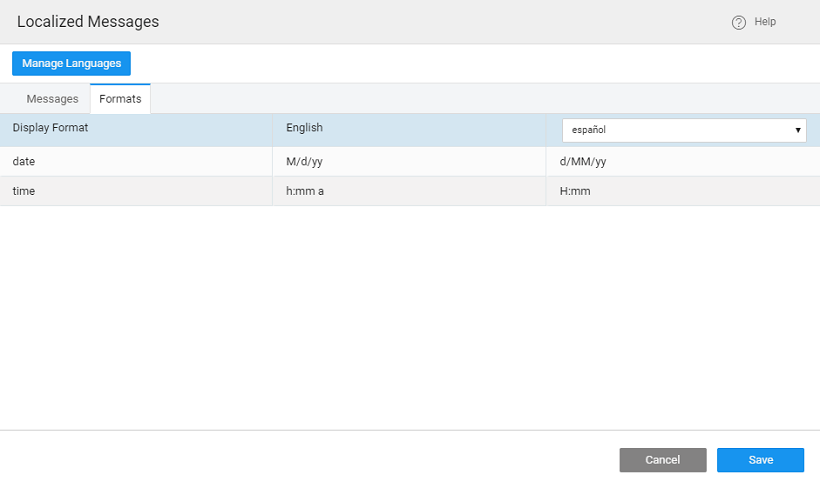
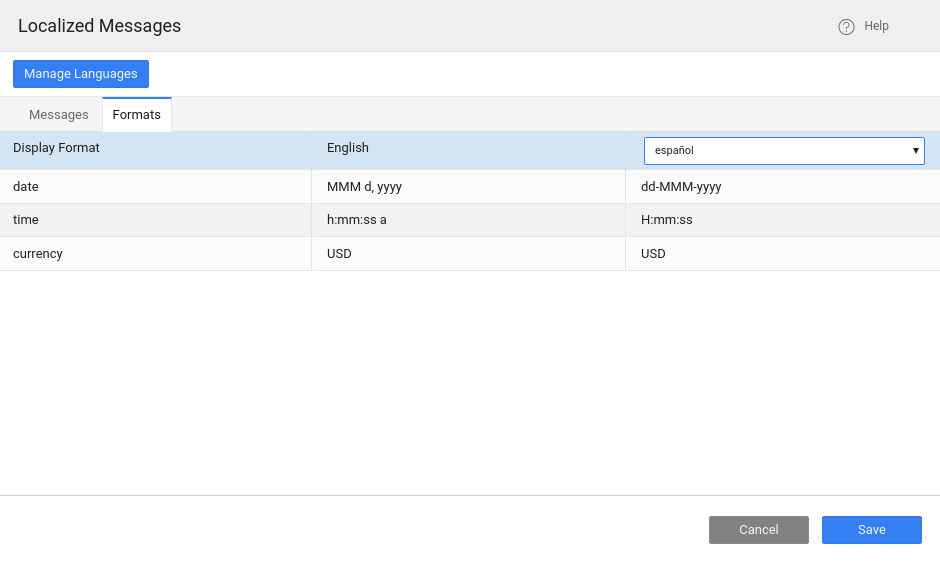
Added documentation for 1. Breadcrumb layout options 2. Colorpicker “autoclose” property 3. Checkboxset/Radioset inline items alignment 4. App level currency symbol support

diff --git a/learn/app-development/widgets/form-widgets/color-picker.md b/learn/app-development/widgets/form-widgets/color-picker.md
@@ -28,6 +28,7 @@ Color Picker is available only for web responsive apps.
 | Show | Showing determines whether or not a component is visible. It is a bindable property. |
 | Load on Demand (visible only when show property is bound to a variable) | When this property is set and show property is bound, the initialization of the widget will be deferred till the widget becomes visible. This behavior improves the load time. Use this feature with caution, as it has a downside (as we will not be able to interact with the widget through script until the widget is initialized). When show property is not bound the widget will be initialized immediately. |
 | Disabled | If the disabled property is true (checked) the value of the editor cannot change. The widget becomes display-only. |
+| Auto Close | This property defines when to close the colorpicker popover. <br><br> **Outside Click**: picker popover will close when user clicks anywhere outside the picker area. <br><br> **Always**: picker popover will close when user clicks anywhere on the page. <br><br> **Disabled**: picker popover will close only when user press enter key on the picker input field.|
 
 ***Shortcut key**: The shortcut key property specifies a shortcut key to click the button. The way of accessing the shortcut key is varying in different browsers:
 

diff --git a/learn/app-development/widgets/form-widgets/select-locale-usage.md b/learn/app-development/widgets/form-widgets/select-locale-usage.md
@@ -30,7 +30,8 @@ id: ""
 
 [![](/learn/assets/loc_new_msg_entry.png)](/learn/assets/loc_new_msg_entry.png)
 
-7. You can also set the date and time formats specific to a required locale. This will ensure that the date and time pickers are properly aligned and set to the preferred format. 
+7. You can also set the date and time formats specific to a required locale. This will ensure that the date and time pickers are properly aligned and set to the preferred format.
+You can also select the currency symbol. This symbol will be applicable to all the currency widgets across the app.
 
 [![](/learn/assets/loc_edit_formats.png)](/learn/assets/loc_edit_formats.png)
 

diff --git a/learn/app-development/widgets/form-widgets/radioset.md b/learn/app-development/widgets/form-widgets/radioset.md
@@ -5,6 +5,10 @@ id: "radioset"
 ---
 Radioset allows you to group a set of radio buttons under a common heading. You need to bind to a dataset to display a radio button for each value.
 
+## Items per Row
+
+**Items per row** determine the number to items that can be shown in each row. This can be specified independently for different target devices, from the _device_ tab of the _Properties panel_.
+
 ## Properties
 
 | **Property** | **Description** |

diff --git a/learn/app-development/widgets/form-widgets/checkboxset.md b/learn/app-development/widgets/form-widgets/checkboxset.md
@@ -11,6 +11,10 @@ Using the Group By property you can group the items together under a heading. Th
 
 [![](/learn/assets/checkboxset_group.png)](/learn/assets/checkboxset_group.png)
 
+## Items per Row
+
+**Items per row** determine the number to items that can be shown in each row. This can be specified independently for different target devices, from the _device_ tab of the _Properties panel_.
+
 ## Properties
 
 | **Property** | **Description** |

diff --git a/learn/how-tos/widget-template-layout.md b/learn/how-tos/widget-template-layout.md
@@ -47,3 +47,4 @@ Similarly, you can apply a widget template for the **[Cards](/learn/app-developm
 
 4. Select the layout from the available list. The layout will be changed and the properties, events, and bindings of the widget remain the same.
 
+Similarly, you can apply a widget layout for the **[Breadcrumb](/learn/app-development/widgets/navigation/breadcrumb)** widget also.
